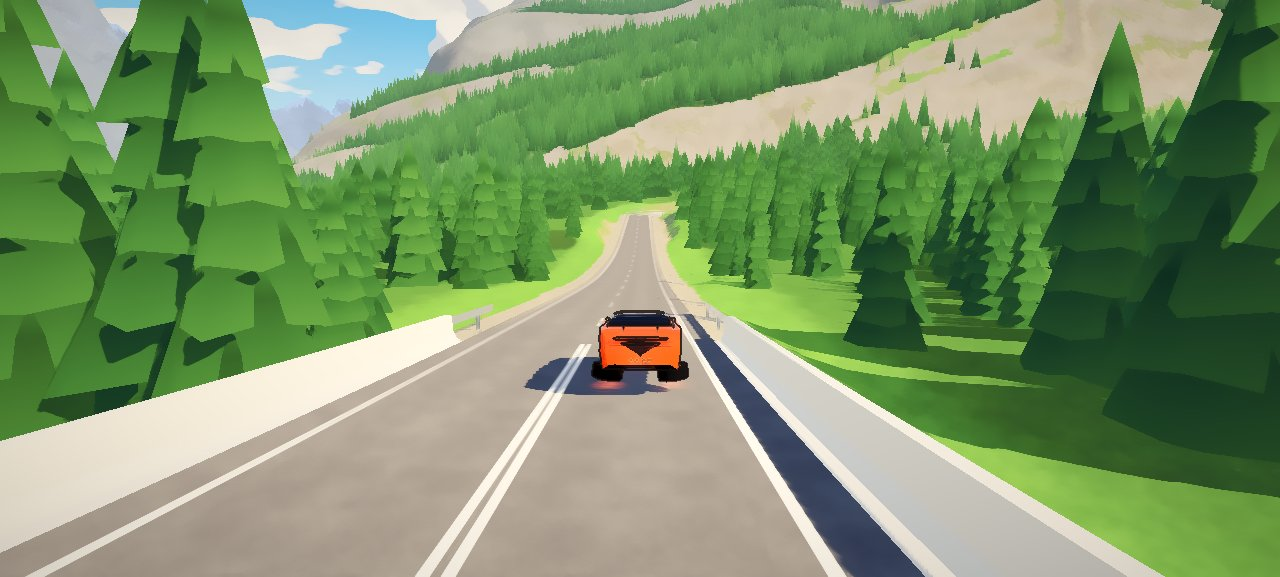
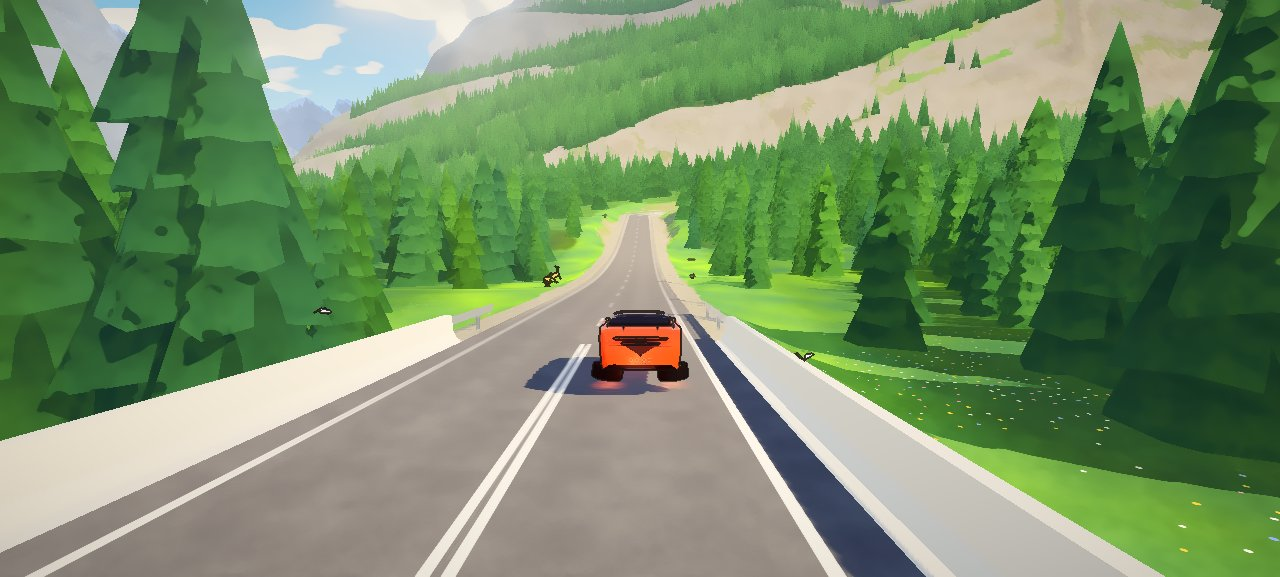
📝 docs: animals for 手绘, and 方块
The README now counts seven styles, shows 方块 and 手绘 with its animals
beside them (docs/assets/style-block.jpg, style-paint-life.jpg; the
手绘 picture is drawn again), tells what 手绘 and 方块 are made of,
lists block under style=, puts critters.js in the tree and brings the
style row of the verification table up to date.

The design notes say how 手绘 gets its cloud shadows, leaf clumps,
meadow patches, flowers and glow, how 方块 finds each face and lays
texels on it (the two scales, the 1 km repeat of the draws, why the
texel is taken from the pixel's own tangent plane), how its trees are
built and swapped, how the animals are placed, moved and marked, what
the sky of blocks is, and that the animals are decoration: they do not
dodge trees and the car cannot hit them.

diff --git a/docs/design.md b/docs/design.md
@@ -187,15 +187,23 @@ Worker 里有一份同样的地：同一个种子造的 `makeWorldLand`，世界
 
 **后处理。** 场景 → 泛光（线性 HDR）→ 一个 pass 里做曝光、ACES、转 sRGB、调色和暗角 → 画风的最后一道 pass（只在写实以外的画风下画）。
 
-**画风** `render/style.js`。同一个世界有六种画法：写实、手绘、水墨、赛璐璐、版画、像素。一种画风是一组数，在三处用：
+**画风** `render/style.js`。同一个世界有七种画法：写实、手绘、水墨、赛璐璐、版画、像素、方块。一种画风是一组数，在三处用，另有两样东西跟着它出现或换样（小动物，方块搭的树）：
 
-- **材质的光。** 经过 `withAtmosphere` 的材质（地形、路、桥、隧道、树、楼、水、车）都换上自己的直射光、漫射天光和反射函数（`patchLighting`）。three 的光照循环按名字调用它们，所以别的钩子改同样的代码块时互不干扰。阳光按入射角分成暗、中、亮三级，两条分界和软硬都可调；只分漫射，高光照旧算，只是弱一些。背光一面的天光染成蓝紫。投影的软边收硬。车的材质在 alpha 里给自己做个记号（0.5），玻璃不做，它透出后面的东西。手绘的阳光略暖；背阴处的天光连同环境贴图那一份一起提亮（环境那份 1.55–1.8 倍），影子是浅的蓝灰，不发黑；沥青这样最暗的灰（材质用 `userData.styleLift` 打开）提亮一点、偏暖，越暗提得越多，深浅次序不变。
-- **天空。** 天顶更深；云换成一团团的积云，边缘利落，向阳一面白，背阴一面灰紫，地平线上一圈云堤。环境贴图从同一片天画出来，车漆里映的也是这些云。手绘的天更饱满，深蓝一直压到地平线附近：天是在曝光之前画的，浅蓝经过曝光会洗成白。它的积云少一些、更白，背阴一面更暗，曝光和色调曲线之后还留得住；地平线上再立九座积云塔，每座是十四团边缘起伏的云堆成的，最前面的一团给出法线，按太阳打光，只分亮暗两级，云团之间的褶皱和底部压暗，逆光时一圈亮边，脚下没进雾里。这些只画在白天的天上：天顶的线性亮度在 0.02–0.06 之间从夜过渡到昼，夜里的城市、地狱、太空留着自己的天，远处也不变蓝。手绘的环境贴图从原来那片天画（云还在里面）：照着深蓝的天，灰色的路面成了藏青。
-- **最后一道 pass。** 在调色之后，读调好的画面和场景的深度。笔触：Kuwahara 滤波，在半径 4 像素的圆里分八个扇区，相邻扇区重叠一半，每个扇区按高斯加权求均值和方差，越平的扇区权重越大，平处更平，边缘不糊；扇区是圆的，笔触是一团团圆的，四个方块象限会拉出条纹和方块。49 个采样点各落在哪个扇区、占多少权重，在 JS 里算好写成常量表，着色器里没有反三角函数，也不按变量下标写数组。平涂：只和深度相差 3% 以内的邻居求平均，草和岩石的纹理没了，东西的边还在。墨线：深度跳变处是轮廓，深度的坡度折断处是折线，随距离淡出；手绘只给车勾线（读 alpha 里的记号），赛璐璐的线是所勾之物本身压暗的颜色，水墨的线粗细不匀，还会枯。墨色：五级墨加纸，越暗墨越浓，淡墨最浓到八成，比线浅；天（深度在远平面上）和雾留白；车留着自己的颜色。版画：暗处印靛蓝，亮处留纸，亮度切成四级、色相不变，天从顶上往下晕开一道靛蓝。像素：屏幕高约 180 格，每格是整数个像素，边缘利落；每通道八级，4×4 有序抖动。最后是暗角。手绘还让远处从 150 m 起一层层变蓝，中间调提亮一点，最暗的绿提成深青绿；绿色按原来的亮度重新从三种颜料里取，暗处青绿、中间翠绿、亮处嫩黄绿，偏黄的地方不算绿；最暗的几级不加饱和度，加了会把深灰染成墨蓝。雾只留四分之一（`Game.update` 乘上画风的 `fog`）。
+- **材质的光。** 经过 `withAtmosphere` 的材质（地形、路、桥、隧道、树、楼、水、车）都换上自己的直射光、漫射天光和反射函数（`patchLighting`）。three 的光照循环按名字调用它们，所以别的钩子改同样的代码块时互不干扰。阳光按入射角分成暗、中、亮三级，两条分界和软硬都可调；只分漫射，高光照旧算，只是弱一些。背光一面的天光染成蓝紫。投影的软边收硬。车的材质在 alpha 里给自己做个记号（0.5），玻璃不做，它透出后面的东西。手绘的阳光略暖；背阴处的天光连同环境贴图那一份一起提亮（环境那份 1.55–1.8 倍），影子是浅的蓝灰，不发黑；沥青这样最暗的灰（材质用 `userData.styleLift` 打开）提亮一点、偏暖，越暗提得越多，深浅次序不变。手绘还让云的影子从地上滑过：太阳那一路光（方向和太阳一致的那一路）乘上一张按世界坐标取的柔噪声，噪声被风以 6.5 m/s 平移，最暗压掉一半的直射光，车和树照样被它盖到。树叶的法线按世界坐标上两层光滑的正弦漩涡扰动一下（材质用 `userData.styleClump` 打开），亮暗就碎成一米见方的一团团，像一笔一笔点上去的叶子；只作用在偏绿的顶点上，树干不动。
+- **天空。** 天顶更深；云换成一团团的积云，边缘利落，向阳一面白，背阴一面灰紫，地平线上一圈云堤。环境贴图从同一片天画出来，车漆里映的也是这些云。手绘的天更饱满，深蓝一直压到地平线附近：天是在曝光之前画的，浅蓝经过曝光会洗成白。它的积云少一些、更白，背阴一面更暗，曝光和色调曲线之后还留得住；地平线上再立九座积云塔，每座是十四团边缘起伏的云堆成的，最前面的一团给出法线，按太阳打光，只分亮暗两级，云团之间的褶皱和底部压暗，逆光时一圈亮边，脚下没进雾里。这些只画在白天的天上：天顶的线性亮度在 0.02–0.06 之间从夜过渡到昼，夜里的城市、地狱、太空留着自己的天，远处也不变蓝。手绘的环境贴图从原来那片天画（云还在里面）：照着深蓝的天，灰色的路面成了藏青。方块的天：太阳是一个方块（在垂直于太阳方向的平面上取 max(|x|, |y|)），云是 12 m 一格的白方块，铺在约 130 m 高的平面上，被风推着走；都只在白天的天上，圆的日盘和软云层此时关掉。
+- **最后一道 pass。** 在调色之后，读调好的画面和场景的深度。笔触：Kuwahara 滤波，在半径 4 像素的圆里分八个扇区，相邻扇区重叠一半，每个扇区按高斯加权求均值和方差，越平的扇区权重越大，平处更平，边缘不糊；扇区是圆的，笔触是一团团圆的，四个方块象限会拉出条纹和方块。49 个采样点各落在哪个扇区、占多少权重，在 JS 里算好写成常量表，着色器里没有反三角函数，也不按变量下标写数组。平涂：只和深度相差 3% 以内的邻居求平均，草和岩石的纹理没了，东西的边还在。墨线：深度跳变处是轮廓，深度的坡度折断处是折线，随距离淡出；手绘只给车勾线（读 alpha 里的记号），赛璐璐的线是所勾之物本身压暗的颜色，水墨的线粗细不匀，还会枯。墨色：五级墨加纸，越暗墨越浓，淡墨最浓到八成，比线浅；天（深度在远平面上）和雾留白；车留着自己的颜色。版画：暗处印靛蓝，亮处留纸，亮度切成四级、色相不变，天从顶上往下晕开一道靛蓝。像素：屏幕高约 180 格，每格是整数个像素，边缘利落；每通道八级，4×4 有序抖动。最后是暗角。手绘还让远处从 150 m 起一层层变蓝，中间调提亮一点，最暗的绿提成深青绿；绿色按原来的亮度重新从三种颜料里取，暗处青绿、中间翠绿、亮处嫩黄绿，偏黄的地方不算绿；最暗的几级不加饱和度，加了会把深灰染成墨蓝。雾只留四分之一（`Game.update` 乘上画风的 `fog`）。草地再加一层色块和野花，都按深度还原的世界坐标取，周期 1 km，所以贴在地上、不钉在屏幕上：色块是两层值噪声（8 m 和 3.2 m），把绿色提亮或压暗、推黄或推蓝，300 m 外淡掉；野花是 0.64 m 一格，一格里一朵，成片出现，只开在朝上的绿面上（法线从深度来），20–48 m 间淡出。柔光：泛光的强度、半径、阈值随画风的 `glow` 一起变，手绘开到 0.8，别的画风不动。
 
-**不钉在屏幕上。** 原来的纸纹、水墨的墨色斑驳和枯笔的噪声都按屏幕坐标取。画面里的世界在动，它们不动，看起来就是镜头上的脏点。现在纸纹和墨斑去掉了；枯笔的噪声用深度还原出世界坐标再取，贴在世界上跟着线走，150–450 m 之间淡掉，远处的线是匀的。只剩像素画风的有序抖动按屏幕取，那是它本身。`style_check` 用相隔半秒的两帧量：写实里两帧都平滑的像素上，画风两帧的细节要是相关，就是钉在屏幕上的图案。原来手绘、水墨、版画是 0.16、0.10、0.21，现在 −0.10、0.03、0.06，门槛 0.09。
+**不钉在屏幕上。** 原来的纸纹、水墨的墨色斑驳和枯笔的噪声都按屏幕坐标取。画面里的世界在动，它们不动，看起来就是镜头上的脏点。现在纸纹和墨斑去掉了；枯笔的噪声用深度还原出世界坐标再取，贴在世界上跟着线走，150–450 m 之间淡掉，远处的线是匀的。只剩像素画风的有序抖动按屏幕取，那是它本身；方块的方格、手绘的色块和野花都按世界坐标取，不算。`style_check` 用相隔半秒的两帧量：写实里两帧都平滑的像素上，画风两帧的细节要是相关，就是钉在屏幕上的图案。原来手绘、水墨、版画是 0.16、0.10、0.21，现在 −0.01、0.04、0.04，方块 0.01，门槛 0.09。
 
-写实画风下这些全关：每处改动都在一个 uniform 后面，取写实的值时走原来的代码，最后一道 pass 不画，画面和加画风之前逐位相同（种子 7、660 帧的航拍帧和诊断数据都对得上）。换画风时，所有数在 1.4 s 里平滑地从一组过到另一组，天空每 0.12 s 重画一次环境贴图，到了再画一次。
+**方块。** 方块的最后一道 pass 先给每个像素找它在哪个面上：用左右、上下相邻像素的深度还原出世界点（每个方向取深度跳变近的那一边），叉乘得到法线，法线最大的那个分量说它是顶面、侧面还是底面。再在这个面的平面上铺 s 米见方的方格：像素的世界点另外两个坐标取整到方格中心，第三个坐标按像素自己的切平面算，这样方格中心还落在同一个表面上；把这个点投回屏幕，取那里的画面颜色。那里的深度和这个点对不上（落到了边外，或别的东西上），就用像素自己的颜色。每格再按它在 1 km 见方里的位置取一个随机数，明暗一点，像方块表面那张小图。s 是 2 的整数次幂，约等于距离乘 0.012，相邻两级之间混合，所以屏幕上总是几个像素一格，换级也没有接缝；离得近时是 1/16 m 一格，正好是一块方块上的 16 格。方格的位置用浮动原点对 1024 取模的值（在页面上用双精度算好，再交给着色器）加上像素的世界点来定，随机数也只取这 1 km 里的位置，所以原点移动时，每格的图案不跳，数字也不会多到让 1/16 m 的方格抖。顶面不变，侧面压到 0.78 和 0.62，底面 0.5，按 55% 混进去。方格贴在世界上，不钉在屏幕上，`style_check` 量过。
+
+树换成方块搭的：`forest.js` 为云杉、阔叶树、石松、仙人掌各造一套箱子（每个面平的，每个箱子一个自己的明暗），实例的矩阵不变，所以树的位置和大小还是原来的。一块是树高的 0.055，高的树块也大一点。换到方块时，每个地块的网格换几何，之后烤好的地块直接用方块的；换回来同样换回去，`style_check` 看换回之后的画面和没换过的只差 0.1%。
+
+**小动物** `render/critters.js`。走的动物（手绘：鹿、兔、狐、黑猫；方块：猪、羊、牛、鸡）每种一个 `InstancedMesh`，最多 2–6 只。CPU 上每只只有位置、朝向、步伐、低头的程度和一个随机数；腿、头、尾的摆动在顶点着色器里做：每个顶点带着转轴（`aPivot`）和什么在转它（`aSwing`：腿、头或尾），实例的 `aAnim` 给出步伐的相位和幅度，腿绕转轴前后摆，头低下去吃草，尾巴摆。每 0.25 s 看一次要不要补一只：在车前 70–220 m 的路边找一个点（距路肩 1.5–17.5 m），要求在桥和隧道之外、地面够平（2 m 内高差不到 0.7 m）、不在水里、`treesAt` 不到 0.12（林子还没长到那里）、离别的动物 7 m 以上；每个世界要几只、要哪几种，各有一张表（山间、丘陵、河谷、沿海有，别的世界没有）。随机数是按种子算的，无头运行每次一样。鹿、兔、狐在车 20–36 m 内就朝远离路的方向跑，5 s 后淡出；落到车后 60 m、或离车 330 m 的，淡出后收走。动物在画面的 alpha 里标 0.3（车标 0.5），所以会勾线的画风也给它们勾线，笔触的半径却只有 35%，不会把它们抹掉。
+
+飞的（鸟、蝶）像鱼群一样，CPU 上什么也不存：每群的种子把它放进一个跟着镜头走的盒子，盒子里的位置按绝对坐标取模，顶点着色器让鸟绕着大圈飞、扇翅（一阵扇、一阵滑）、微微向圈内倾，让蝶晃着飞、翅膀一开一合。鸟离镜头 18–45 m 之间由小变大，不会有一只突然贴在镜头上。动物只在手绘（`fauna`）和方块（`mobs`）里出现，数量随画风的数渐入渐出；写实和别的画风里一只也没有，画面和以前逐位相同。
+
+写实画风下这些全关：每处改动都在一个 uniform 后面，取写实的值时走原来的代码，最后一道 pass 不画，画面和加画风之前逐位相同（种子 7、660 帧的航拍帧和诊断数据，写实、赛璐璐、像素、水墨、版画都和上一版对得上）。换画风时，所有数在 1.4 s 里平滑地从一组过到另一组，天空每 0.12 s 重画一次环境贴图，到了再画一次。
 
 **深度。** 场景画进合成器自己的两个目标，两个目标各带一张深度贴图，`TapPass` 记下这一帧场景画进了哪一个。合成器的第二个目标是第一个的拷贝，拷贝来的深度贴图和原来的共用一张 GPU 贴图：调色画进另一个目标时把场景的深度一起清掉了，墨线和平涂全没了，水墨只剩一张白纸。现在各用各的。调色画进目标时也不先清（它反正盖满每个像素）：叠化的时候，它画进的正是场景那一张。泛光叠到画面上时只加颜色、不动 alpha，车的记号才留得到最后。
 
@@ -225,7 +233,7 @@ Worker 里有一份同样的地：同一个种子造的 `makeWorldLand`，世界
 
 **世界菜单。** 右下角第一个按钮「世界」打开：最上面一行「下一个世界」（N 键也行），下面十一个世界。点世界名，约一公里后开始换过去；勾选框决定哪些世界轮流出现，按菜单的顺序轮，至少留一个，选择存在 localStorage 里，下次打开照旧。车所在的世界旁边是一个橙点和「此处」，下一个要到的世界标「前方」。无头运行时不读这个选择，检查看到的总是完整的循环；`turn=coast@60` 让无头运行在第 60 帧换到沿海，`camat=drone@300` 在第 300 帧换成航拍，`worlds=1` 打开菜单，供检查和截图用。
 
-**画风菜单。** 右下角第二个按钮「画风」打开：最上面一行「下一种画风」（V 键也行），下面六种画风，正在用的那一种旁边是一个橙点。点一种，用 1.4 s 换过去；选择存在 localStorage 里，地址里的 `style=ink` 优先。无头运行时不读这个选择；`styleat=ink@300` 让无头运行在第 300 帧换成水墨，`styles=1` 打开菜单。两个菜单一次只开一个。
+**画风菜单。** 右下角第二个按钮「画风」打开：最上面一行「下一种画风」（V 键也行），下面七种画风，正在用的那一种旁边是一个橙点。点一种，用 1.4 s 换过去；选择存在 localStorage 里，地址里的 `style=ink` 优先。无头运行时不读这个选择；`styleat=ink@300` 让无头运行在第 300 帧换成水墨，`styles=1` 打开菜单。两个菜单一次只开一个。
 
 **配色。** 面板是中性的磨砂玻璃，强调色只有一个：#ff6a3d，车漆的颜色，只用在代表车的点和竖线上，以及悬浮车的发光环。
 
@@ -256,7 +264,7 @@ Worker 里有一份同样的地：同一个种子造的 `makeWorldLand`，世界
 | `tools/game_check.mjs [秒] [seed]` | 无头 Chrome 跑真实页面；检查行驶距离、碰撞、翻车、路面块和几何体数量、树 |
 | `tools/bake_check.mjs` | 真实页面（不是无头运行，那会在页面上烤）等 Worker 起来，把镜头周围和前方 0.5、1.5、3 km 路边的地形块和树块在页面上、在 Worker 里各烤一次，逐位比较；山间那次再换到下一个世界，等路铺回来再比一次。有一个数不同、Worker 加载的地址没带内容哈希、页面报错或 Worker 放弃即失败 |
 | `tools/presentation_check.mjs` | 车轮、转向、车身姿态、镜头滞后确实在动；起步时轮子着地，到速后翻平悬浮；按 10、20、30、40 fps 走帧时镜头仍跟着车 |
-| `tools/style_check.mjs` | 无头跑同一段路，车后的机位，六种画风各一帧：每种都画出东西、和写实不同；水墨除了车没有颜色，车保住写实里的红，纸占一大片但不是全部；手绘和赛璐璐颜色更足、纹理更平；版画在开阔的天上印一道靛蓝；像素是整数像素的方块、每通道八级。手绘、水墨、版画相隔半秒的两帧里，写实平滑的地方细节不相关（低于 0.09），没有钉在屏幕上的图案。再看一次换画风：一半时间时过了一半，路上天空重画不超过 14 次，换回写实后最后一道 pass 关掉，画面和从没换过的那次几乎一样 |
+| `tools/style_check.mjs` | 无头跑同一段路，车后的机位，七种画风各一帧：每种都画出东西、和写实不同；水墨除了车没有颜色，车保住写实里的红，纸占一大片但不是全部；手绘和赛璐璐颜色更足、纹理更平；版画在开阔的天上印一道靛蓝；像素是整数像素的方块、每通道八级；方块的路面成片同色、颜色更足。手绘、水墨、版画、方块相隔半秒的两帧里，写实平滑的地方细节不相关（低于 0.09），没有钉在屏幕上的图案。丘陵里跑 7 秒：写实一只动物也没有，手绘有走的和飞的，方块有走的、没有飞的；换回写实，动物都不见了，方块的树又是树，画面和没换过的几乎一样。再看一次换画风：一半时间时过了一半，路上天空重画不超过 14 次，换回写实后最后一道 pass 关掉，画面和从没换过的那次几乎一样 |
 | `tools/director_check.mjs [秒] [seed…]` | 无头跑导演镜头，外加一次竖屏、一次种子 7 的高架、种子 7 在城市、地底、天堂、深海、太空各一次，一次潜进深海（世界缩到 1200 m），和一次城市里的航拍（先追车 5 s 再换航拍）；车在画面里的帧少于 98%、被挡住超过 1.5%、出现不带叠化的跳切、镜头钻进地面即失败 |
 | `tools/shot.mjs` | 一次运行里同时出图和诊断数据 |
 | `tools/sound_demo.mjs [秒] [参数] [out.wav]` | 无头开一段车，把这段车的声音离线渲染成 WAV，并打印峰值和均方根电平 |
@@ -271,6 +279,7 @@ Worker 里有一份同样的地：同一个种子造的 `makeWorldLand`，世界
 - 岩层只在着色里，几何上没有台阶；崖脚还没有碎石锥。
 - 选线还在主线程上，偶尔一步要 17 ms 左右，会掉一帧。
 - 一帧 0.75–2.2 M 三角形、300–450 次绘制。
+- 小动物只是摆设：跑的时候不躲树，会穿过树干；车碰不到它们，也不会停下来让它们先过。
 - 地底的洞顶还没进太阳遮挡。
 - 洞门端墙是平的一块，被山体切得不齐。
 - 手动驾驶手感。
